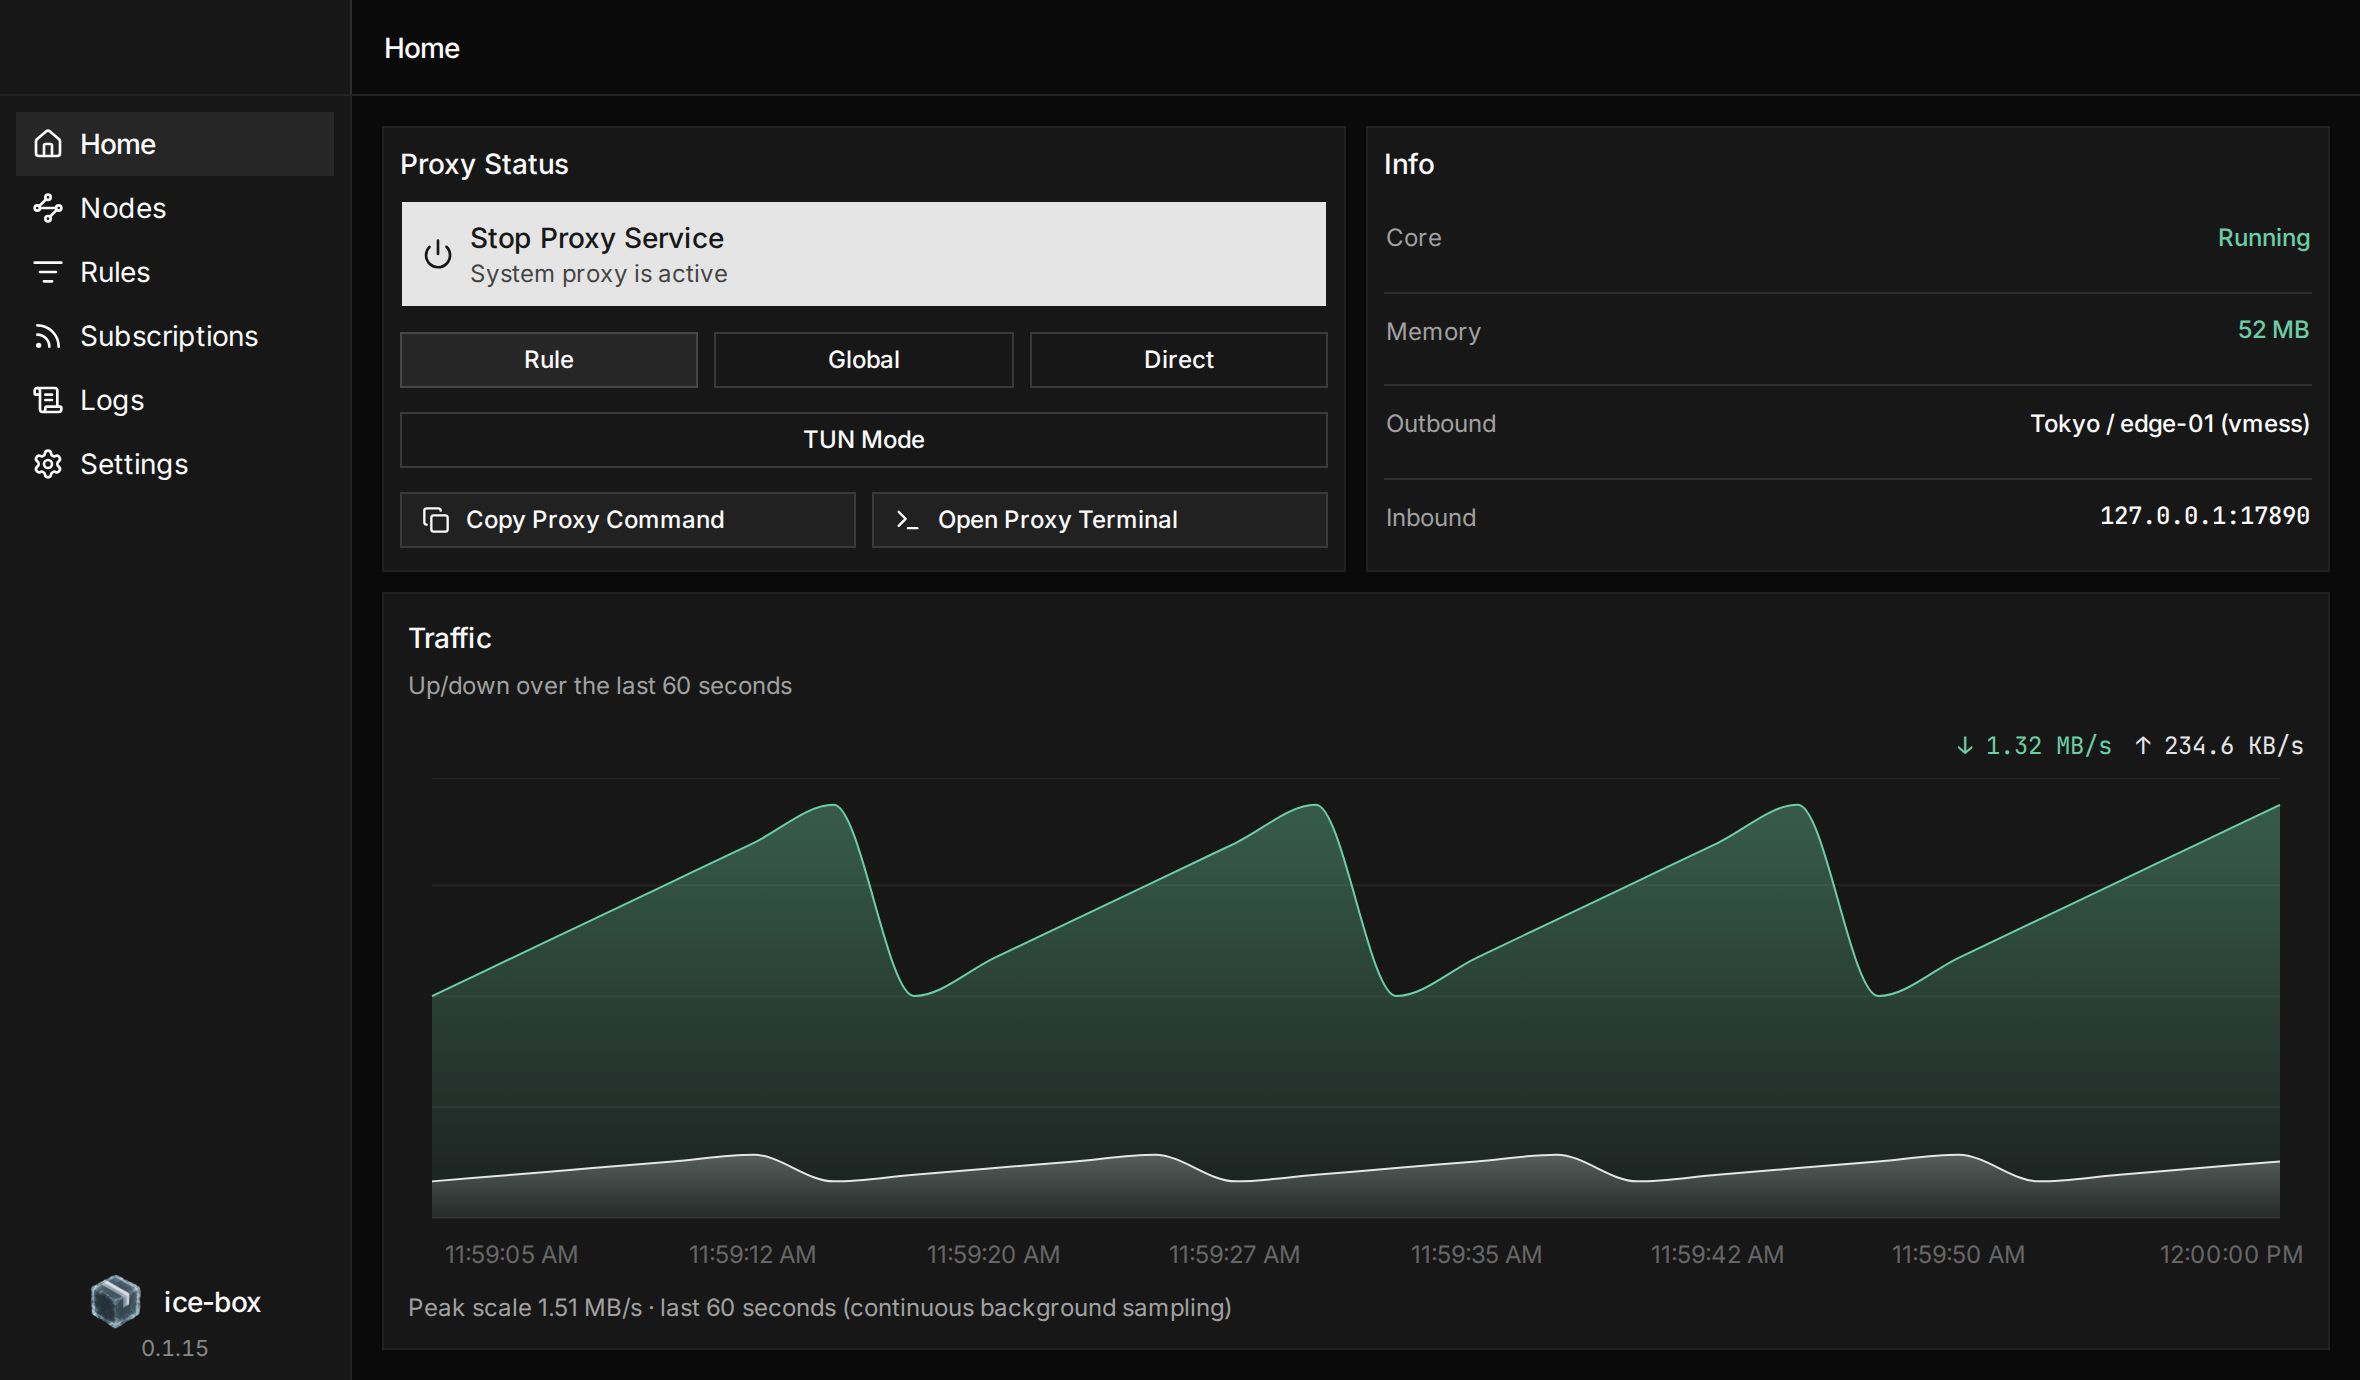
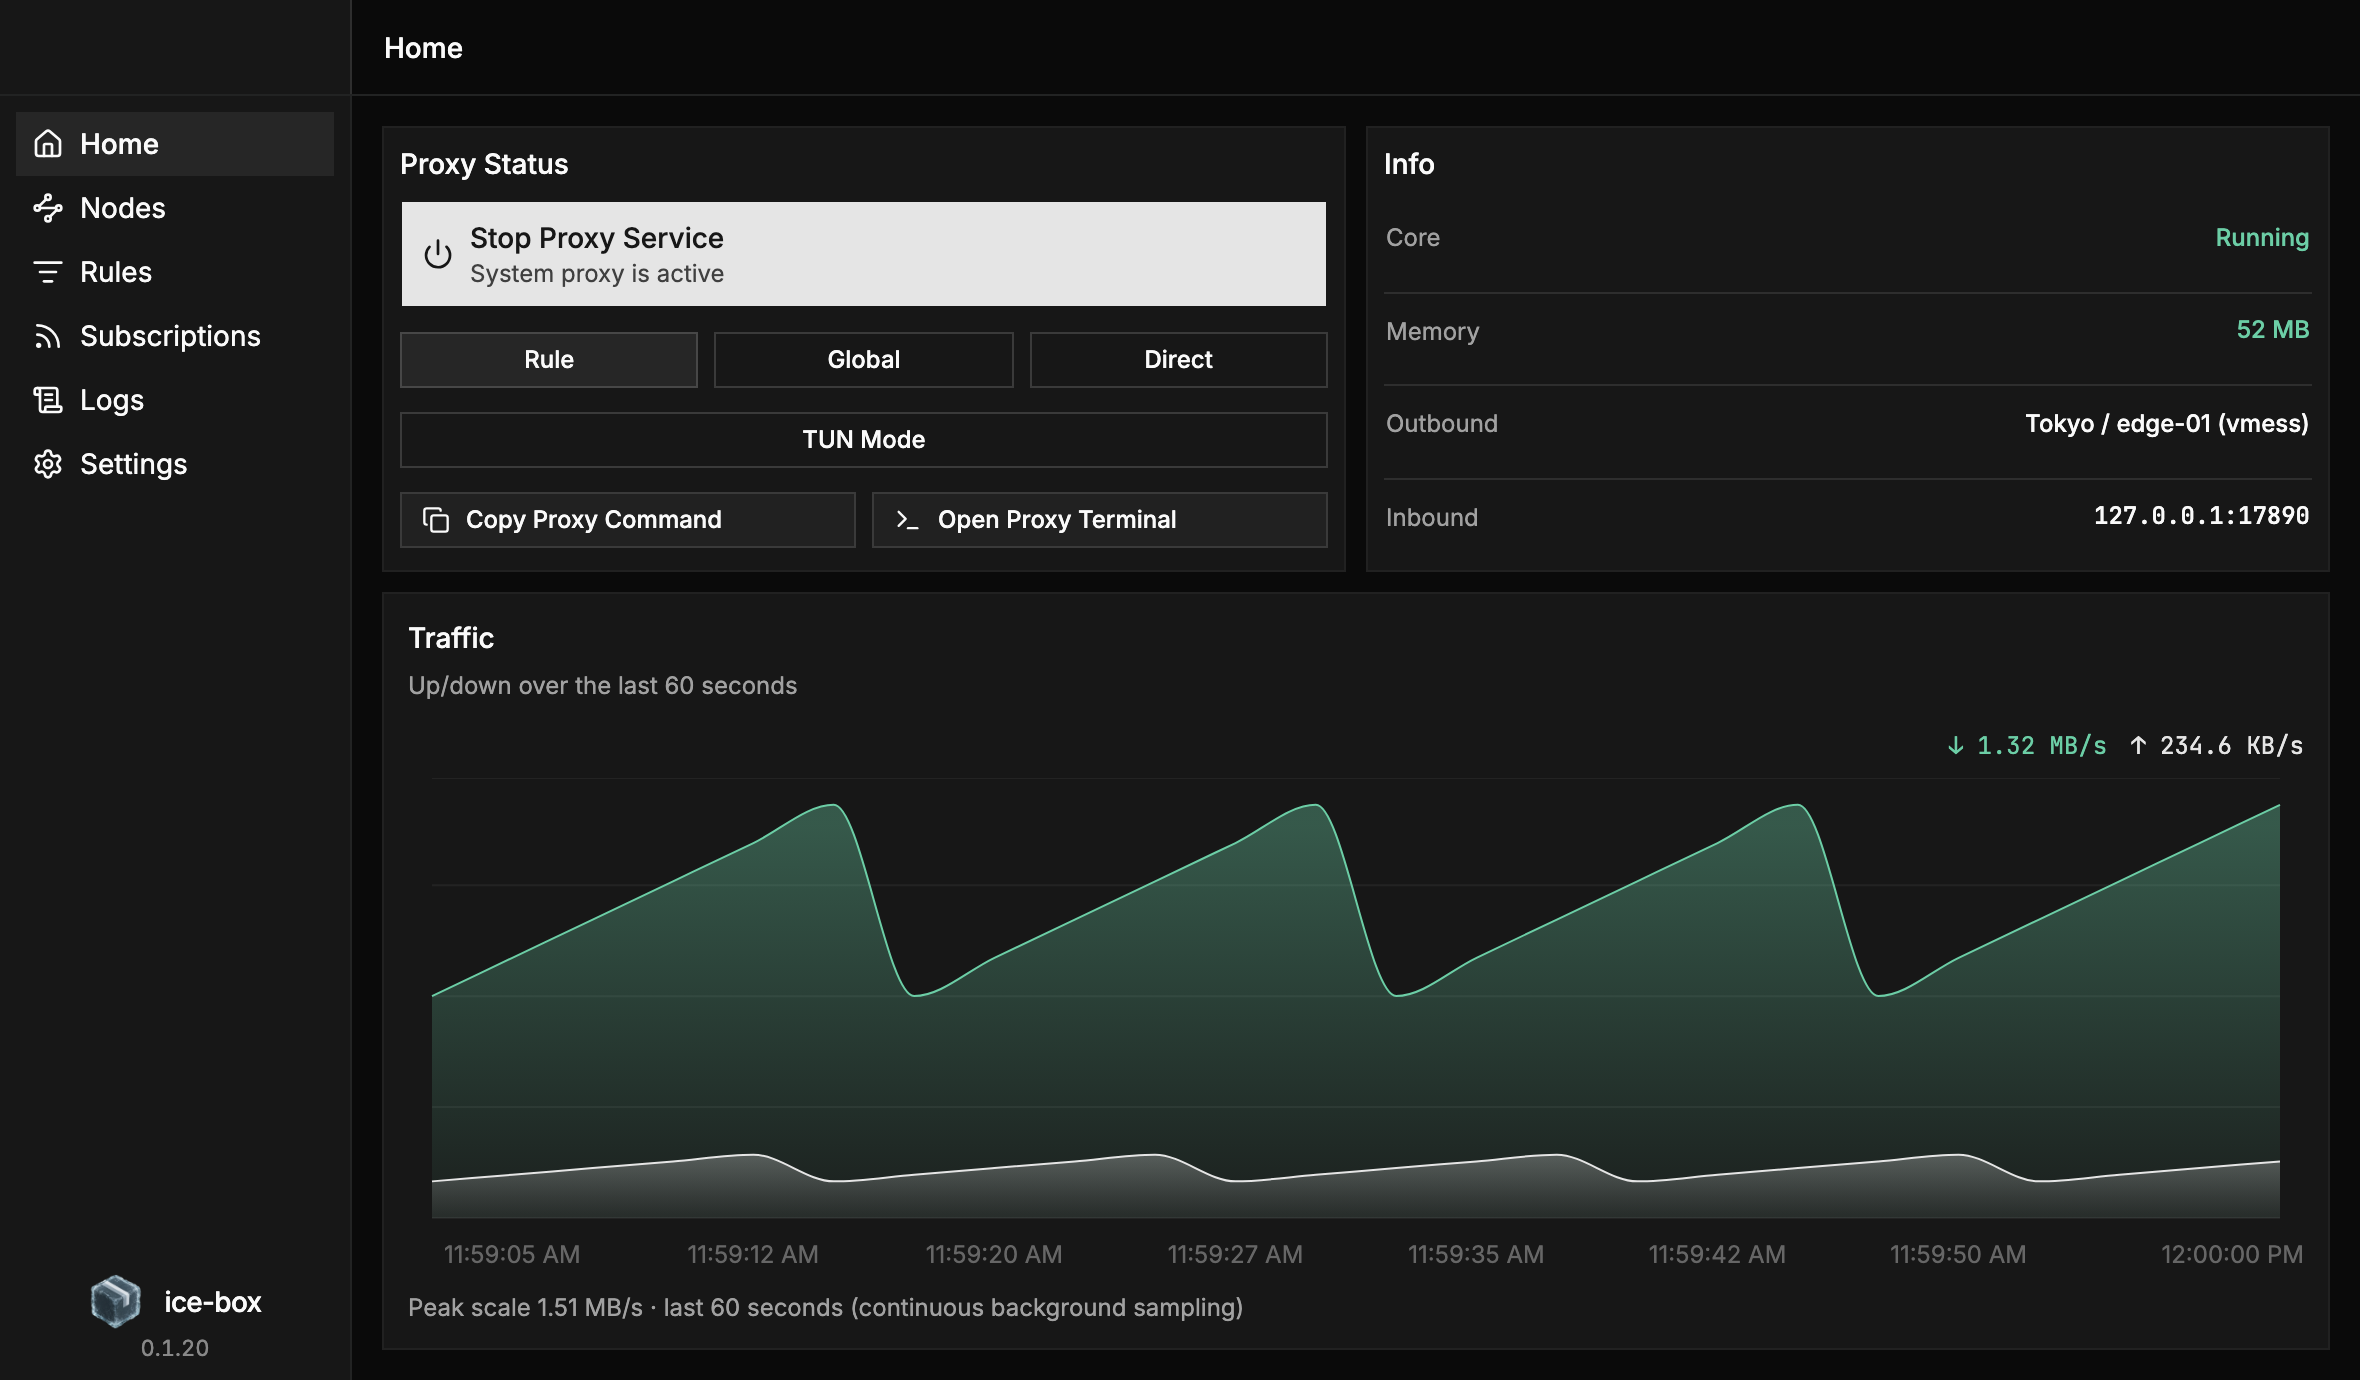
release: v0.1.20
Ship the Android client: VPN tunnel, in-app APK updates, and phone settings.
Bump the version sources, open the 0.1.20 changelog, and recapture the Home
screenshots. Tagging stays a post-merge step per docs/release-process.md.

diff --git a/CHANGELOG.md b/CHANGELOG.md
@@ -5,12 +5,18 @@ The format is based on [Keep a Changelog](https://keepachangelog.com/en/1.1.0/).
 
 ## [Unreleased]
 
+## [0.1.20] - 2026-09-30
+
 ### Added
 
+- Android client for arm64 phones. It reuses the desktop interface. The host
+  process writes the config, and the VPN service runs the tunnel. The power
+  button connects after the system VPN permission prompt.
 - Android release APKs are signed with a project keystore that stays out of
   the repository. The release workflow publishes one arm64-v8a APK beside the
   desktop installers. Its version code comes from the semantic version, so a
-  newer release installs over the previous one.
+  newer release installs over the previous one. The pinned GeoIP rule-sets
+  ship inside the APK.
 - Phone Settings checks GitHub Releases, downloads the arm64 APK, and hands
   it to the system installer. The user confirms the install.
 - Phone Settings explains battery-optimization exemption, strict Private DNS,
@@ -27,6 +33,9 @@ The format is based on [Keep a Changelog](https://keepachangelog.com/en/1.1.0/).
   core from starting.
 - Importing or refreshing a subscription no longer runs the network request
   on the Android UI thread.
+- Tunnel status is published atomically, so a torn status file no longer
+  looks like a stopped tunnel. The update card unlocks once the system
+  installer has the APK.
 
 ## [0.1.15] - 2026-09-28
 
